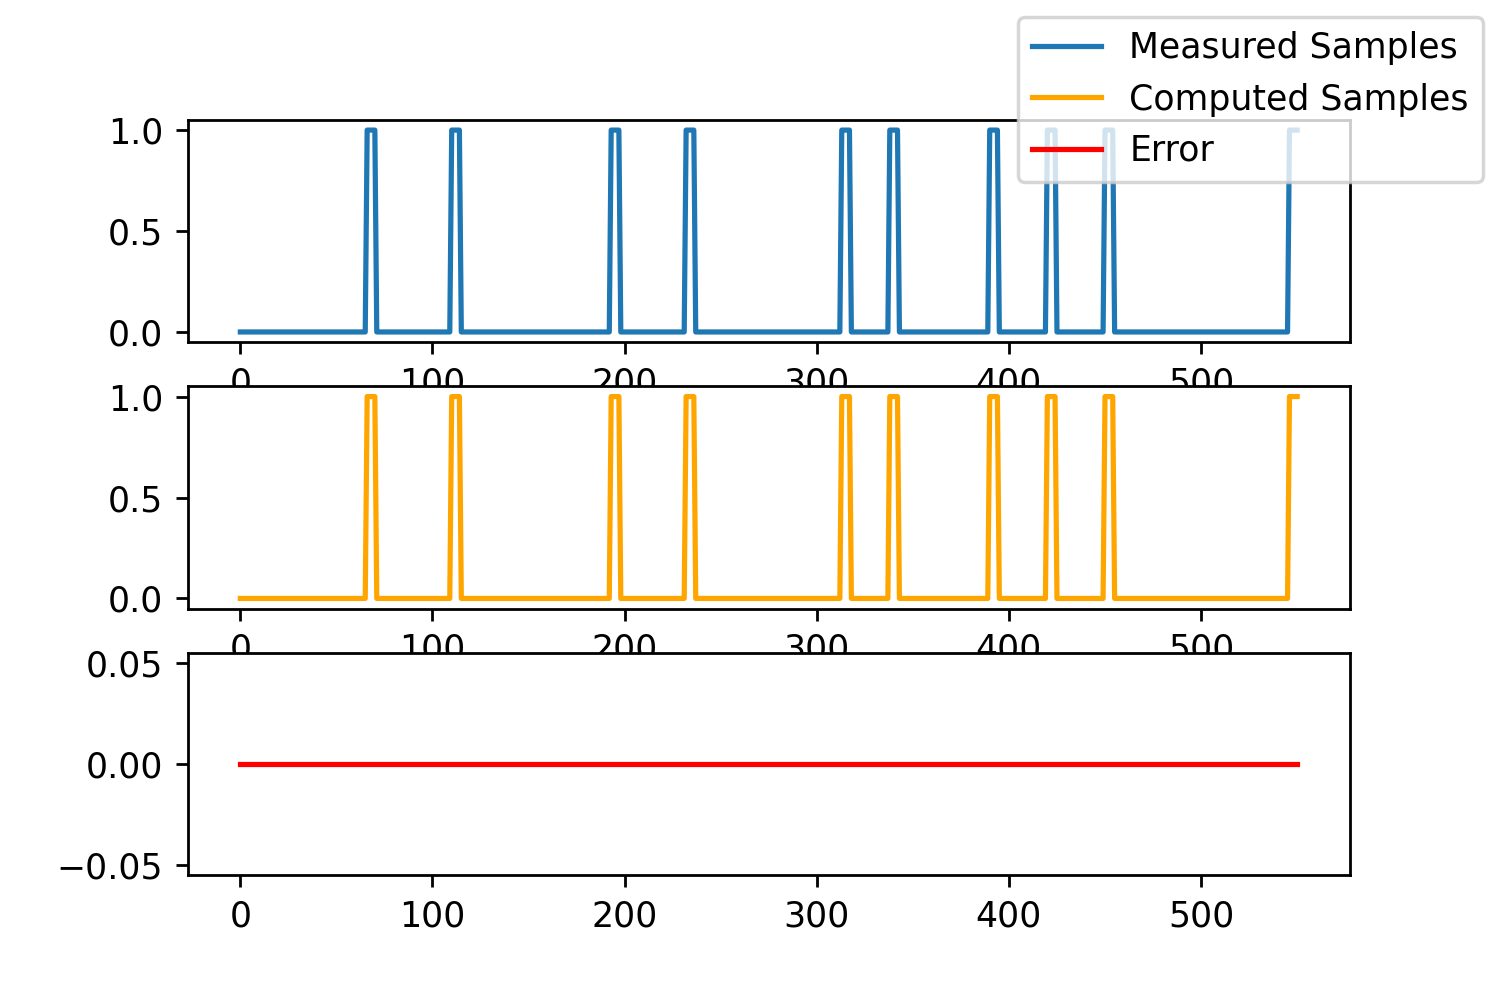
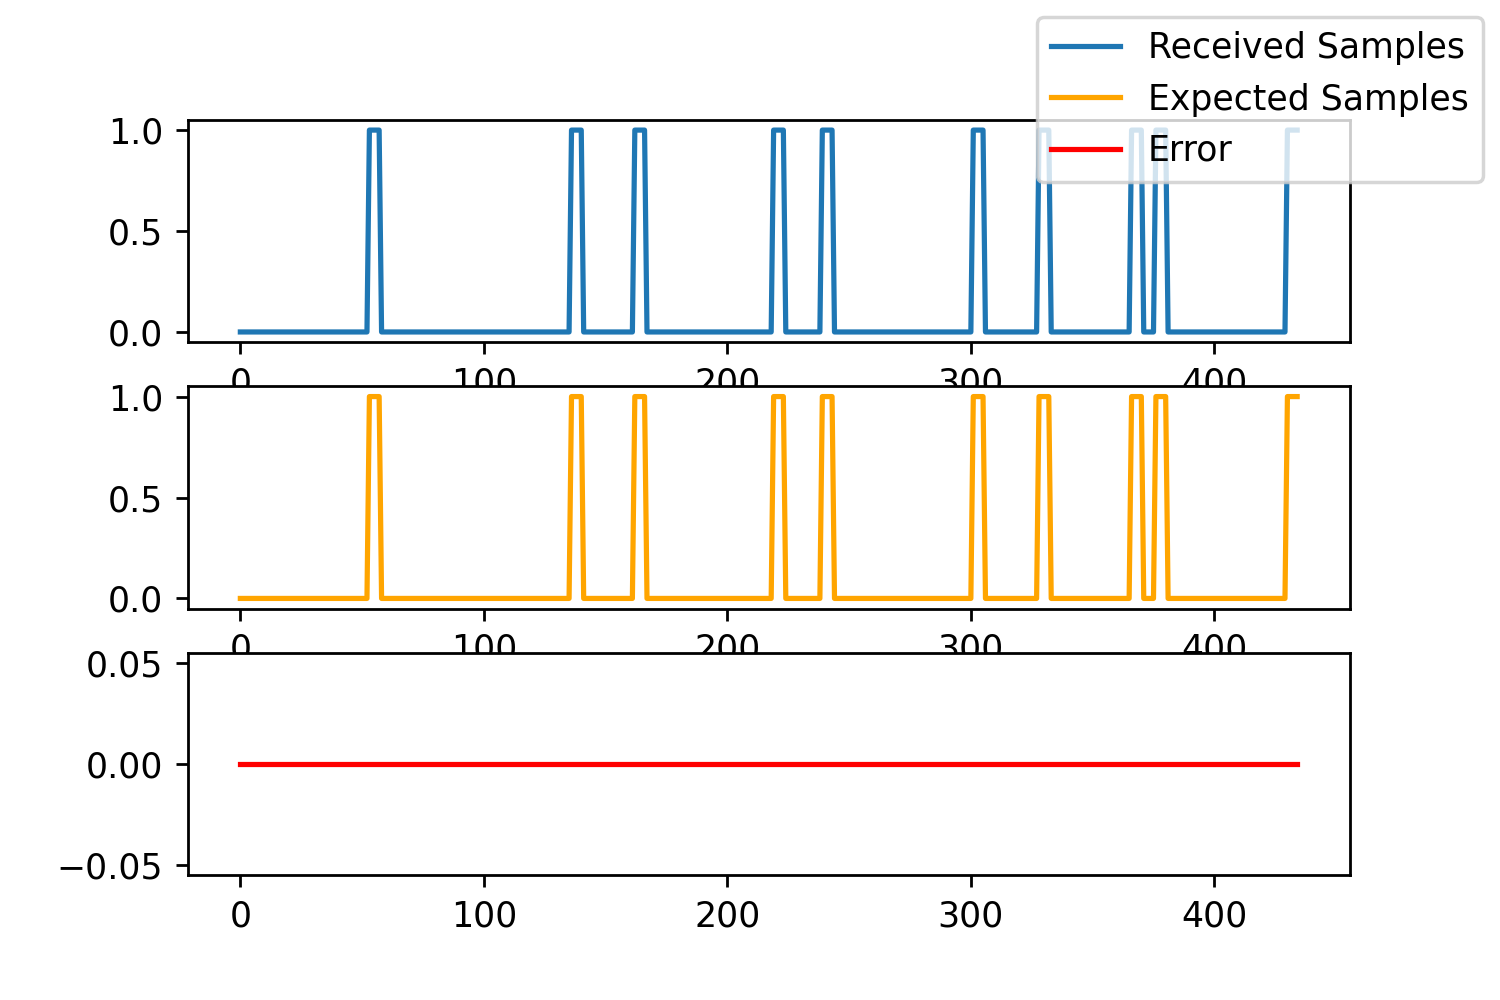
TB_main;TB_selector;TB_camera:working

diff --git a/TB_camera/TB_camera.py b/TB_camera/TB_camera.py
@@ -1,7 +1,8 @@
-import shutil, os, random, sys
+import shutil, os, random, sys, pickle
 from matplotlib import pyplot as plt
 import numpy as np
 from tabulate import tabulate
+import pandas as pd
 sys.path.append('../')
 from my_serial import my_serial,read,read_byte,writeln
 
@@ -9,8 +10,8 @@ CAMERA_CH1_BIT = 0
 CAMERA_CH2_BIT = 1
 
 PERIOD_GEN_COM_NR = 3
-PULSE_GEN_COM_NR = 7
-CAMERA_COM_NR = 8
+PULSE_GEN_COM_NR = 8
+CAMERA_COM_NR = 19
 
 #[ms]
 GENERATOR_PERIOD = 1
@@ -54,24 +55,31 @@ with my_serial(PERIOD_GEN_COM_NR) as sr_period_gen:
             for i in range(SAMPLES_NR):
                 byte_buff = int(read_byte(sr_camera))
                 samples_received.append([(byte_buff>>CAMERA_CH1_BIT)&1, (byte_buff>>CAMERA_CH2_BIT)&1])
-            samples_received = np.array(samples_received)
 
+samples_received = np.array(samples_received)
 samples_received = samples_received.astype(int) #konwertuje stringi na inty
 
 samples_expected = np.zeros(SAMPLES_NR, dtype=bool)
 for start, width in PULSES_LIST:
     samples_expected[start:start+width] = True
-
 Error = samples_received[:,0] - samples_expected
 
-# print(tabulate(zip(samples_received, samples_expected, Error), headers=['samples_received', 'samples_expected', 'Error']))
+df = pd.DataFrame()
+df['Received samples'] = samples_received[:,0]
+df['Expected sampels'] = samples_expected
+df['Error'] = Error
+
+print(tabulate(df, df.columns))
 
 shutil.rmtree('Results', ignore_errors=True)
 os.mkdir('Results')
 
 fig, axs = plt.subplots(3)
-axs[0].plot(samples_received[:,0], label='Measured Samples')
-axs[1].plot(samples_expected,'orange', label='Computed Samples')
+axs[0].plot(samples_received[:,0], label='Received Samples')
+axs[1].plot(samples_expected,'orange', label='Expected Samples')
 axs[2].plot(Error, 'r', label = 'Error')
 fig.legend()
 fig.savefig('Results/results', dpi = 250)
+
+with open("Results/results", "wb") as f:
+    pickle.dump(df, f)

diff --git a/TB_main/TB_main.py b/TB_main/TB_main.py
@@ -1,9 +1,10 @@
-import shutil, os, random, threading, sys
+import shutil, os, random, threading, sys, pickle
 from subprocess import call
 from matplotlib import pyplot as plt
 import numpy as np
 from tabulate import tabulate
 from tqdm import tqdm
+import pandas as pd
 sys.path.append('../')
 from my_serial import my_serial,read,read_byte,writeln
 
@@ -14,8 +15,8 @@ CAMERA_CH1_BIT = 0
 CAMERA_CH2_BIT = 1
 
 PERIOD_GEN_COM_NR = 3
-PULSE_GEN_COM_NR = 7
-CAMERA_COM_NR = 19
+PULSE_GEN_COM_NR = 8
+CAMERA_COM_NR = 7
 SIG_PROC_COM_NR = 5
 
 #[ms]
@@ -79,7 +80,13 @@ for start, width in PULSES_LIST:
     samples_expected_ch1[start:start+SELECTOR_PULSE_WIDTH] = True
     samples_expected_ch2[start:start+width] = True    
 
-#print(tabulate(zip(samples_received, samples_expected_ch2), headers=['samples_received', 'samples_expected']))
+df = pd.DataFrame()
+df['Received samples ch1'] = samples_received[:,0]
+df['Received samples ch2'] = samples_received[:,1]
+df['Expected samples ch1'] = samples_expected_ch1
+df['Expected samples ch2'] = samples_expected_ch2
+
+print(tabulate(df,df.columns))
 
 shutil.rmtree('Results', ignore_errors=True)
 os.mkdir('Results')
@@ -91,3 +98,6 @@ axs[2].plot(samples_received[:,1],'orange', label='Measured Samples ch2')
 axs[3].plot(samples_expected_ch2,'red', label='Computed Samples ch2')
 fig.legend()
 fig.savefig('Results/results', dpi = 250)
+
+with open("Results/results", "wb") as f:
+    pickle.dump(df, f)

diff --git a/TB_selector/TB_selector.py b/TB_selector/TB_selector.py
@@ -1,5 +1,5 @@
 from tabulate import tabulate
-import random, shutil, os, sys
+import random, shutil, os, sys, pickle
 import pandas as pd
 sys.path.append('../')
 from my_serial import my_serial,read,writeln
@@ -11,7 +11,7 @@ TIMESTAMPS_STEP  = 50   # in trigers (50ms)
 
 GENERATOR_COM_NR = 3
 SELECTOR_COM_NR = 11
-METER_COM_NR = 19
+METER_COM_NR = 7
 
 TimestampsToSend_ms = [FIRST_TIMESTAMP]
 recent_timestamp = FIRST_TIMESTAMP
@@ -21,12 +21,13 @@ for i in range(TIMESTAMPS_NR-1):
     recent_timestamp = timestamp
 
 with my_serial(GENERATOR_COM_NR) as sr_generator:
-    with my_serial(SELECTOR_COM_NR) as sr_selector:        
+    with my_serial(SELECTOR_COM_NR) as sr_selector:
+        print("sr_selector:"+read(sr_selector))                
         with my_serial(METER_COM_NR) as sr_meter:
             print("sr_generator:"+read(sr_generator))
             
-            print("sr_meter:"+read(sr_meter))
-            print("sr_selector:"+read(sr_selector))
+            
+            print("sr_meter:"+read(sr_meter))            
             writeln(sr_generator, '1');
             print("sr_generator:"+read(sr_generator))
             
@@ -46,3 +47,5 @@ shutil.rmtree('Results', ignore_errors=True)
 os.mkdir('Results')
 with open('Results/results.txt', 'w') as file:
     file.write(result)
+with open("Results/results", "wb") as f:
+    pickle.dump(df, f)

diff --git a/TB_regenerator_constant/TB_regenerator_constant.py b/TB_regenerator_constant/TB_regenerator_constant.py
@@ -24,13 +24,13 @@ with my_serial(GENERATOR_COM_NR) as sr_generator:
                         
             print("sr_regenerator:"+read(sr_regenerator))
             print("sr_meter:"+read(sr_meter))
-            writeln(sr_generator, '1')
-            print("sr_generator:"+read(sr_generator))
 
             for period_In, period_Out in zip(SetPeriodIn_ms_l, SetPeriodOut_us_l):
             
                 writeln(sr_generator, str(period_In))
+                print("sr_generator:"+read(sr_generator))
                 writeln(sr_regenerator, str(period_Out))
+                print("sr_regenerator:"+read(sr_regenerator))
                 writeln(sr_meter, 'start')
                 
                 df = pd.DataFrame()
@@ -47,4 +47,4 @@ with my_serial(GENERATOR_COM_NR) as sr_generator:
                 with open(f"Results/in={period_In}ms;out={period_Out}us.txt", 'w') as f:
                     f.write(result)
                 with open(f"Results/in={period_In}ms;out={period_Out}us", "wb") as f:
-                    pickle.dump(result, f)
+                    pickle.dump(df, f)

diff --git a/Image_processing.py b/Image_processing.py
@@ -3,7 +3,7 @@ from my_serial import my_serial,read_byte,writeln,read
 SAMPLE_CH_NR = 0
 STOP_CH_NR = 1
 
-INPUT_SAMPLES_COM_NR = 8
+INPUT_SAMPLES_COM_NR = 19
 OUTPUT_TIMESTAMPS_COM_NR = 11
 TB_MAIN_COM_NR = 6
 

diff --git a/TB_regenerator_variable/TB_regenerator_variable.py b/TB_regenerator_variable/TB_regenerator_variable.py
@@ -43,4 +43,4 @@ os.mkdir('Results')
 with open("Results/results.txt", 'w') as f:
     f.write(result)
 with open("Results/results", "wb") as f:
-    pickle.dump(result, f)
+    pickle.dump(df, f)
